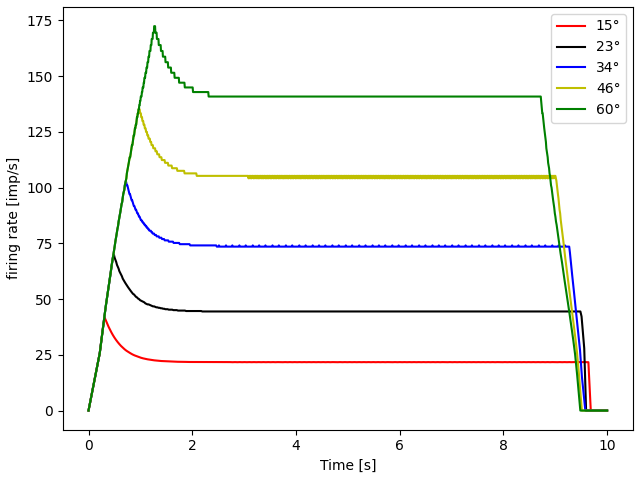
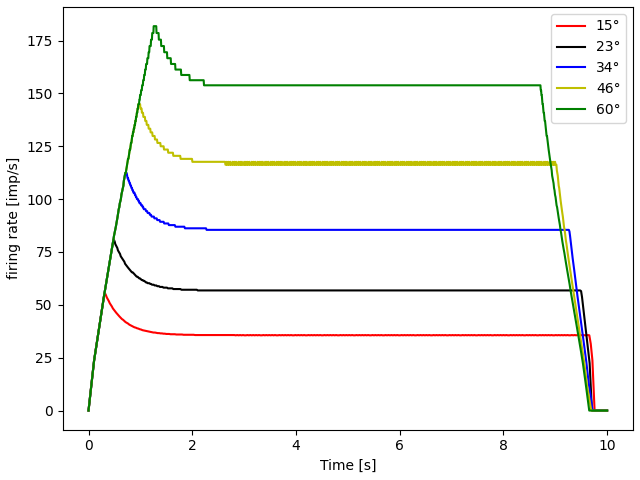
-

diff --git a/run_single_hair.py b/run_single_hair.py
@@ -2,7 +2,8 @@ from dictionaries import Parameters
 from class_sensory_neuron import AdEx
 from plots import *
 from functions import *
-
+import seaborn as sns
+import pandas as pd
 
 class RampGenerator:
     def __init__(self, parameters_ramp, device=None):
@@ -30,6 +31,7 @@ class RampGenerator:
         return input_ramp
 
 
+real_values = np.array([[25, 105, 155, 200, 255], [0, 60, 95, 130, 150], [165, 150, 140, 130, 120], [90, 90, 90, 90, 90]])
 v_var, v_stat = np.array([24, 47, 88, 151, 245]), 47
 max_angle_var, max_angle_stat = np.array([15, 23, 34, 46, 60]), 37
 parameters = Parameters(max_joint_angle=1, min_joint_angle=1, n_hairs=1, t_total=10, dt=0.0001, n_angles=1)
@@ -37,38 +39,85 @@ parameters.sensory['n'] = 5
 
 t_total = 10
 colors = ['green', 'yellow', 'blue', 'black', 'red']
+spike_rates, spike_rates_list = [], []
+times, times_list = [], []
+Vr_list = np.linspace(-70, -50, num=5)*1E-3
+b_list = np.linspace(1e-12, 26e-12, num=5)
+MSE = np.zeros((Vr_list.size, b_list.size))
+for l in tqdm(range(Vr_list.size)):
+    for m in range(b_list.size):
+        for [v, max_angle] in [[v_var, max_angle_stat], [v_stat, max_angle_var]]:
 
-for [v, max_angle] in [[v_var, max_angle_stat], [v_stat, max_angle_var]]:
+            N_steps = round(t_total/parameters.sensory['dt'])
+            N_ramp = np.around(max_angle/(v*parameters.sensory['dt'])).astype(int)
+            height = np.empty([parameters.sensory['n']])
+            height[:] = max_angle/37e9
 
-    N_steps = round(t_total/parameters.sensory['dt'])
-    N_ramp = np.around(max_angle/(v*parameters.sensory['dt'])).astype(int)
-    height = np.empty([parameters.sensory['n']])
-    height[:] = max_angle/37e9
+            parameters_ramp = {'n_ramp': N_ramp, 'n_steps': N_steps, 'height': height, 'low': np.full(height.shape, 0)}
+            ramp_generator = RampGenerator(parameters_ramp)
+            input_ramp = ramp_generator.ramp()
 
-    parameters_ramp = {'n_ramp': N_ramp, 'n_steps': N_steps, 'height': height, 'low': np.full(height.shape, 0)}
-    ramp_generator = RampGenerator(parameters_ramp)
-    input_ramp = ramp_generator.ramp()
+            parameters.sensory['V_R'] = Vr_list[l]
+            parameters.sensory['b'] = b_list[m]
 
-    adex = AdEx(parameters.sensory)
-    adex.initialize_state()
+            adex = AdEx(parameters.sensory)
+            adex.initialize_state()
 
-    voltage, time, spike_list = np.empty(input_ramp.numpy().shape), np.array([]), np.empty(input_ramp.numpy().shape)
+            voltage, time, spike_list = np.empty(input_ramp.numpy().shape), np.array([]), np.empty(input_ramp.numpy().shape)
 
-    for i in tqdm(range(N_steps)):
-        voltage[i, :], spike_list[i, :] = adex.forward(input_ramp[i])
-        time = np.append(time, i*parameters.sensory['dt'])
+            for i in range(N_steps):
+                voltage[i, :], spike_list[i, :] = adex.forward(input_ramp[i])
+                time = np.append(time, i*parameters.sensory['dt'])
 
-    for j in range(parameters.sensory['n']):
-        spikes = np.where(spike_list[:, j] == 1)
+            for j in range(parameters.sensory['n']):
+                spikes = np.where(spike_list[:, j] == 1)
 
-        ISI = np.diff(spikes)
+                ISI = np.diff(spikes)
 
-        t_spikes = np.append(0, time[spikes])
-        spike_rate = np.append(0, 1/(ISI*parameters.sensory['dt']))
-        spike_rate = np.append(spike_rate, 0)
-        spike_rate = np.append(spike_rate, 0)
-        t_spikes = np.append(t_spikes, time[-1])
+                t_spikes = np.append(0, time[spikes])
+                spike_rate = np.append(0, 1/(ISI*parameters.sensory['dt']))
+                spike_rate = np.append(spike_rate, 0)
+                spike_rate = np.append(spike_rate, 0)
+                t_spikes = np.append(t_spikes, time[-1])
 
-        plt.plot(t_spikes, spike_rate)
+                if isinstance(v, int):
+                    MSE[l, m] += abs(real_values[0, j] - np.max(spike_rate))
+                    MSE[l, m] += abs(real_values[1, j] - spike_rate[int(spike_rate.size/2)])
+                else:
+                    MSE[l, m] += abs(real_values[2, j] - np.max(spike_rate))
+                    MSE[l, m] += abs(real_values[3, j] - spike_rate[int(spike_rate.size / 2)])
 
-    plot_single_hair(plt.gca(), v)
+                spike_rates.append(spike_rate)
+                times.append(t_spikes)
+
+            spike_rates_list.append(spike_rates)
+            times_list.append(times)
+            spike_rates, times = [], []
+
+
+MSE = MSE/(real_values.size)
+MSE_flat = np.ndarray.flatten(MSE)
+indexes, index_flat = np.where(MSE == np.min(MSE)), np.where(MSE_flat == np.min(MSE_flat))
+Vr_opt, b_opt = Vr_list[indexes[0]], b_list[indexes[1]]
+print(f'Optimum Vr {Vr_opt}, Optimum b: {b_opt}')
+spike_rates = spike_rates_list[index_flat[0][0]*2+1]
+times = times_list[index_flat[0][0]*2+1]
+
+for i in range(len(spike_rates)):
+    plt.plot(times[i], spike_rates[i])
+plot_single_hair(plt.gca(), v_stat)
+
+spike_rates = spike_rates_list[index_flat[0][0]*2]
+times = times_list[index_flat[0][0]*2]
+for i in range(len(spike_rates)):
+    plt.plot(times[i], spike_rates[i])
+plot_single_hair(plt.gca(), v_var)
+
+df = pd.DataFrame(MSE.astype(int), columns=Vr_list, index=b_list)
+
+
+heatmap = sns.heatmap(data=df, annot=True, fmt='.3g', cbar_kws={'label': 'mean absolute error (MAE)'})
+heatmap.set(xlabel='V_R', ylabel='b')
+
+plt.show()
+

diff --git a/dictionaries.py b/dictionaries.py
@@ -9,8 +9,8 @@ class Parameters:
         self.hair_field = {'N_hairs': n_hairs, 'min_joint_angle': min_joint_angle,
                            'max_joint_angle': max_joint_angle, 'max_angle': 90, 'overlap': 0, 'overlap_bi': 0}
 
-        self.sensory = {'C': 200e-12, 'g_L': 12e-9, 'E_L': -70e-3, 'DeltaT': 2e-3, 'a': 2e-9, 'V_T': -50e-3,
-                        'tau_W': 600e-3, 'b': 8e-12, 'V_R': -70e-3, 'V_cut': -40e-3, 'refrac': 0.00,
+        self.sensory = {'C': 200e-12, 'g_L': 2e-9, 'E_L': -70e-3, 'DeltaT': 2e-3, 'a': 2e-9, 'V_T': -50e-3,
+                        'tau_W': 600e-3, 'b': 60e-12, 'V_R': -58e-3, 'V_cut': -40e-3, 'refrac': 0.00,
                         'n': 2 * n_hairs * n_angles, 'dt': dt}
 
         self.position = {'E_L': -70e-3, 'V_T': -50e-3, 'tau': 80e-3, 'tau_W': 5e-3, 'tau_epsp': 6e-3, 'b': 20e-3,
